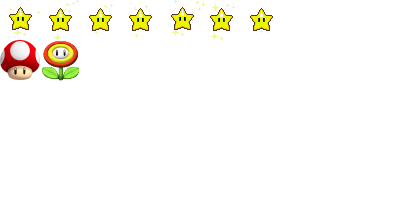
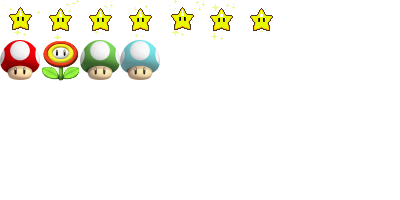
초록 버섯 구현

Changed region(s): [[0.18, 0.18, 0.42, 0.42], [0.24, 0.18, 0.27, 0.21]]

diff --git a/stage2_1.py b/stage2_1.py
@@ -16,7 +16,6 @@ score = None
 coin = None
 star = None
 firesonic = None
-flower = None
 brick = None
 bmx = 0
 bmy = 0
@@ -27,7 +26,7 @@ life = 3
 def point_draw():
     global point
     score.clip_draw(0, 0, 170, 80, 80, 519, 130 ,50)
-    coin.clip_draw(0, 0, 20, 20, 120, 485, 20, 20)
+    coin.clip_draw(0, 20, 20, 20, 120, 485, 20, 20)
     sonic_sprite.clip_draw(0, 460, 40, 40, 120, 560, 40, 40)
 
     for i in range(0, 9+1):                                                 # 점수
@@ -84,7 +83,7 @@ class item:
         self.kind = kind
 
     def update(self):
-        if self.kind==0:
+        if self.kind == 0:
             self.frame = (self.frame + 0.025) % 10
         else:
             self.frame = (self.frame + 0.02) % 7
@@ -122,7 +121,7 @@ class item:
                     self.y = i.top + 20
                     self.savey = self.y
 
-        elif self.kind == 2:                                                            # 버섯
+        elif self.kind == 2:                                                            # 빨간 버섯
             self.y -= 0.5
             for i in b:
                 if crush(self, i) == 1:
@@ -131,6 +130,19 @@ class item:
                     self.dir = 1
                 elif crush(self, i) == 3:
                     self.y = i.top + 20
+
+        elif self.kind == 4:                                                            # 초록 버섯
+            for i in b:
+                if crush(self, i) == 1:
+                    self.dir = -1
+                elif crush(self, i) == 2:
+                    self.dir = 1
+                elif crush(self, i) == 3:
+                    self.y = i.top + 20
+                    break
+                else:
+                    self.y -= 0.5
+                    break
 
     def draw(self):
         if self.kind == 0:
@@ -141,6 +153,8 @@ class item:
             it.clip_draw(0, 120, 40, 40, self.x, self.y, 25, 25)
         elif self.kind == 3:
             it.clip_draw(40, 120, 40, 40, self.x, self.y, 25, 25)
+        elif self.kind == 4:
+            it.clip_draw(80, 120, 40, 40, self.x, self.y, 25, 25)
 
 
 
@@ -216,6 +230,10 @@ class player:
                     self.firemode = True
                     self.size = 60
                     i.life = False
+                elif i.kind == 4:                                                # 초록 버섯
+                    global life
+                    life += 1
+                    i.life = False
 
         for i in wm:
             if self.die == False and i.die == False:
@@ -249,11 +267,10 @@ class player:
             self.diedown += 1
 
         if self.die == True and int(self.frame) == 7:                               # 죽으면 초기화
-            global life
             life -= 1
             enter()
         if self.starmode == True:
-            self.starcount-=1
+            self.starcount -= 1
 
         if self.starcount == 0 and self.starmode == True:                           # 스타모드 끝
             self.starmode = False
@@ -647,7 +664,7 @@ def draw_back():                                   # 배경 그리기
 def enter():
     global sonic, b, wm, ite
     global WIDTH, HEIGHT, frame, x, y, walk_monster, point, coin, firesonic, point, money
-    global sonic_sprite, stage1_1, num, score, it, star, flower, fly_monster, brick,bmx,bmy
+    global sonic_sprite, stage1_1, num, score, it, star, fly_monster, brick,bmx,bmy
 
     sonic_sprite = load_image('sonic.png')
     walk_monster = load_image('walk_monster.png')
@@ -659,7 +676,6 @@ def enter():
     star = load_image('starsonic.png')
     firesonic = load_image('firesonic.png')
     coin = load_image('coin.png')
-    flower = load_image('flower.png')
     brick = load_image('brick.png')
 
     WIDTH = 1000
@@ -667,7 +683,7 @@ def enter():
 
     b = [Block(0, 930, 25, 0, 0), Block(930, 1000, 70, 0, 0),Block(200, 230, 200, 170, 2),Block(230, 260, 200, 170, 2),Block(260, 290, 200, 170, 2)]
     wm = []
-    ite = [item(300, 100, 1),item(500, 100, 2),item(700, 100, 3)]
+    ite = [item(300, 100, 1), item(500, 100, 2), item(700, 100, 3), item(245, 300, 4)]
 
     sonic = player(30, 60)
     bmx = 0
@@ -677,12 +693,11 @@ def enter():
 
 def exit():
     global sonic, b,wm, ite
-    global WIDTH, HEIGHT, frame, x, y, money, point,flower
+    global WIDTH, HEIGHT, frame, x, y, money, point
     global sonic_sprite, stage1_1, num, score,star, it, coin, firesonic, brick
 
     del(sonic_sprite)
     del(stage1_1)
-    del(flower)
     del(sonic)
     del(b)
     del(num)
